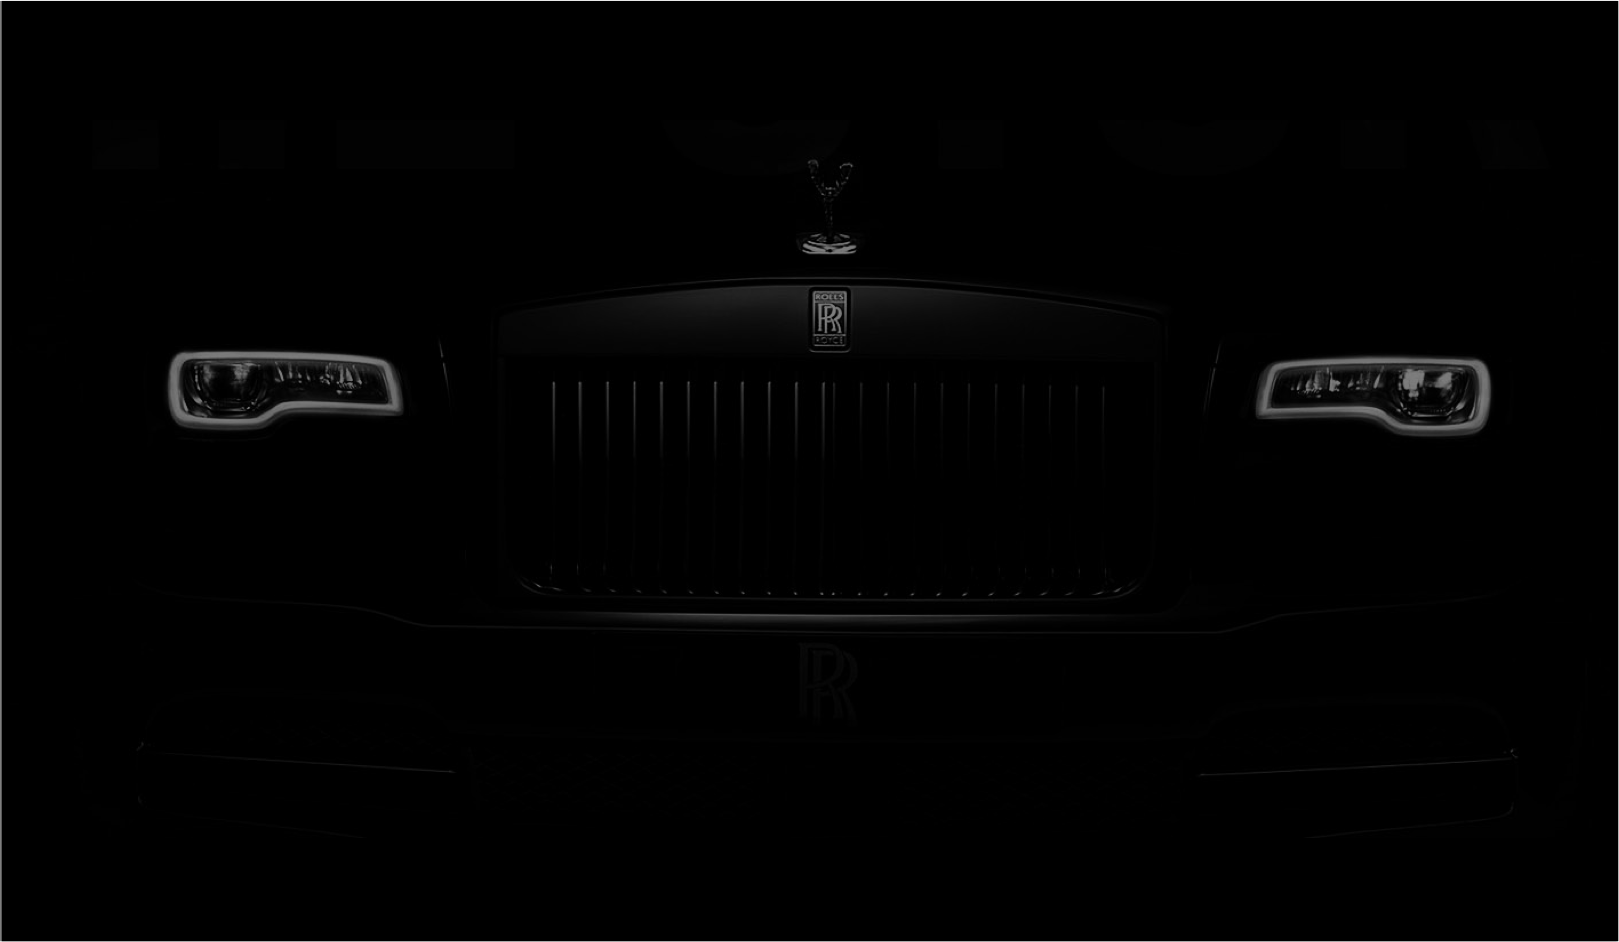
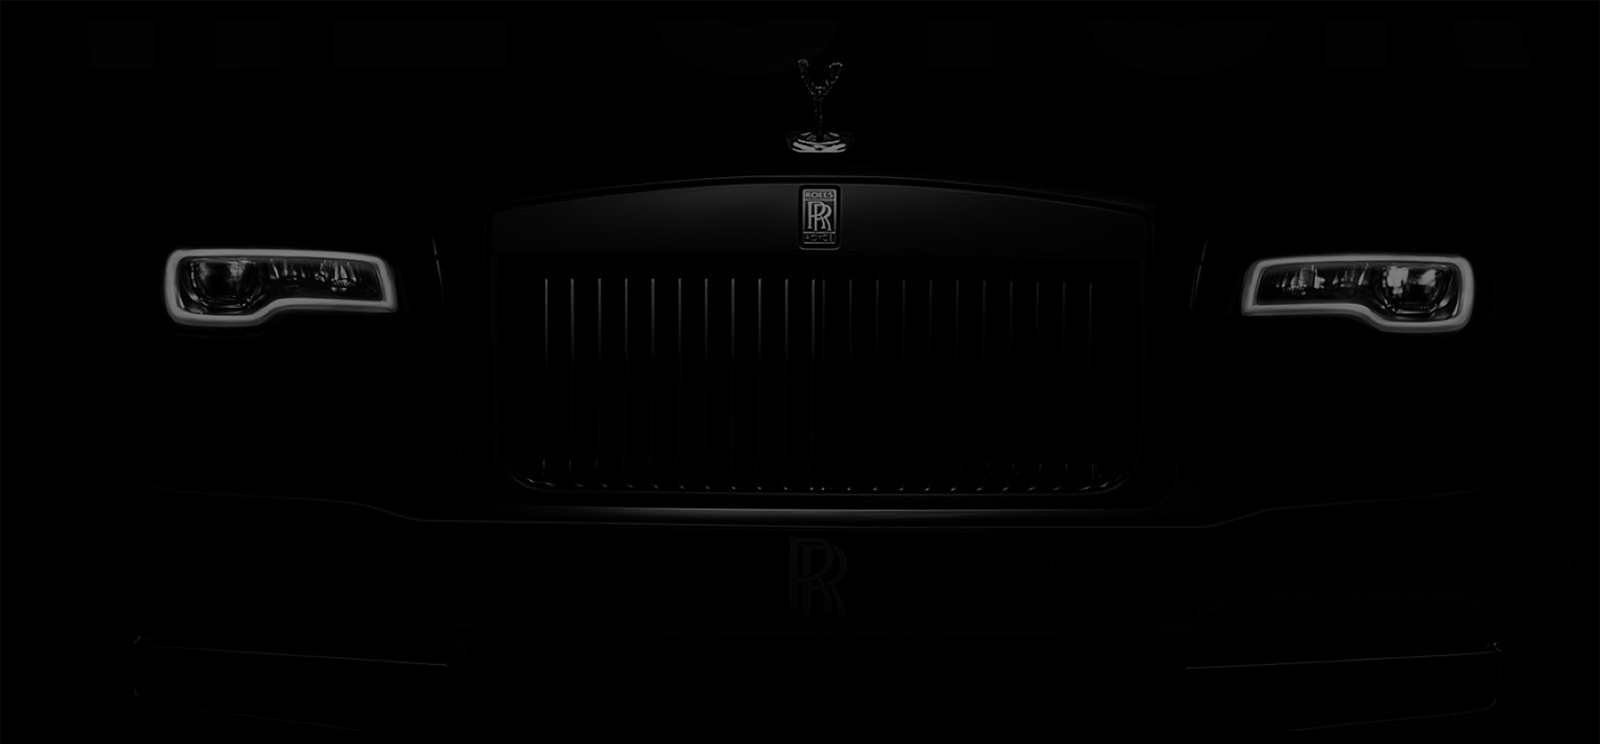
Fix background image position on ProjectsGrid component

diff --git a/src/components/ProjectsGrid/projects-grid.module.scss b/src/components/ProjectsGrid/projects-grid.module.scss
@@ -22,7 +22,7 @@
   @include stretch;
   z-index: -1;
   background-position: center;
-  background-size: cover;
+  background-size: 100%;
   opacity: 0;
 }
 
